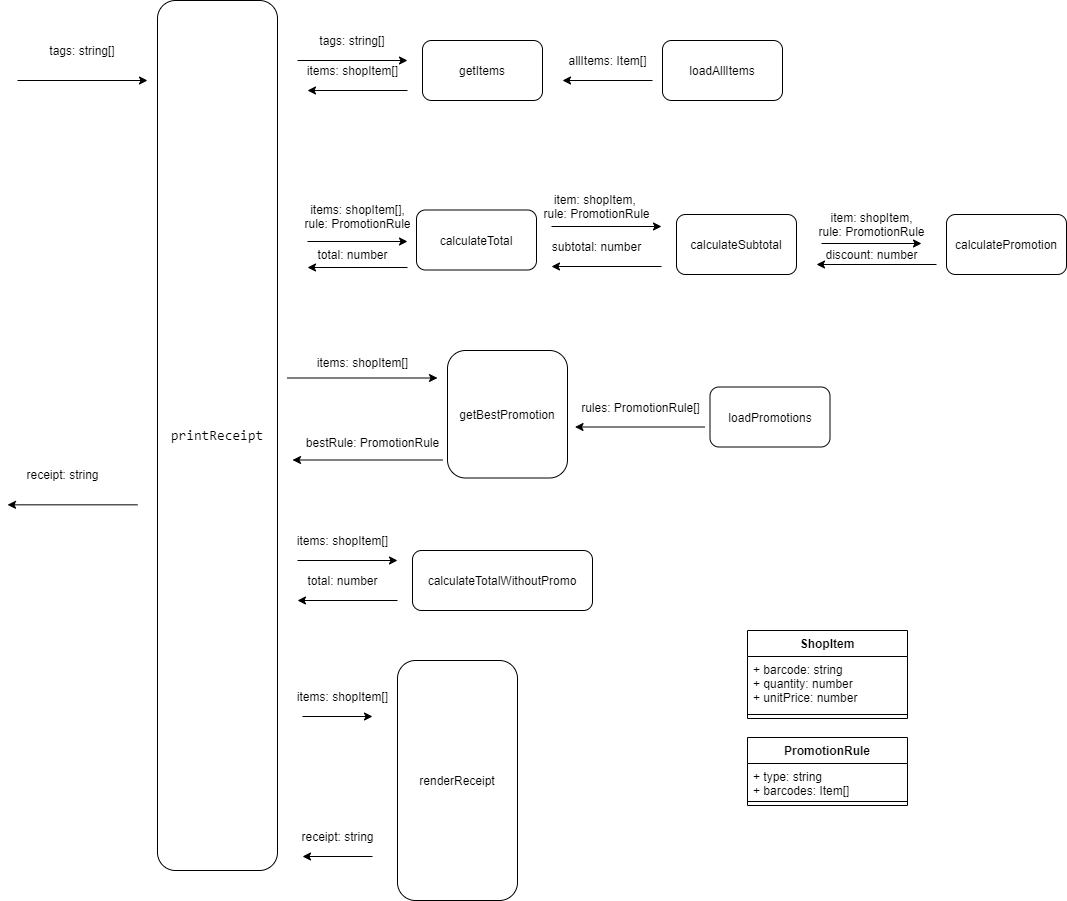
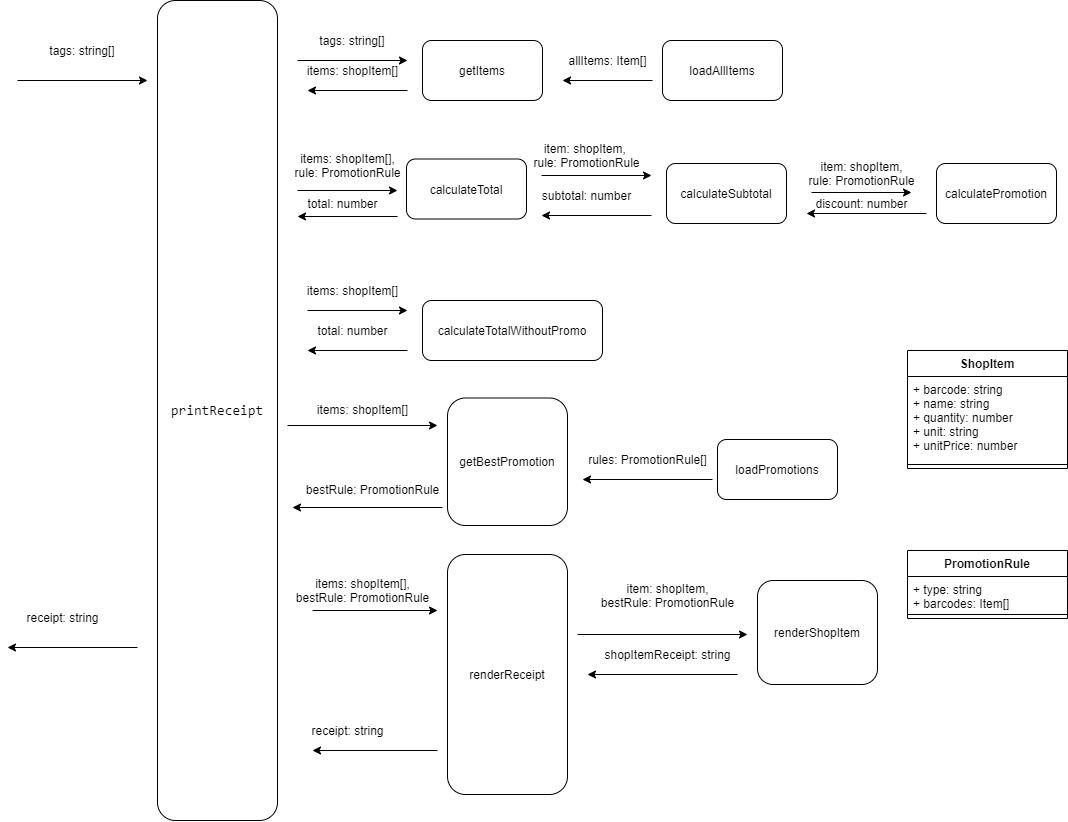
Feat: update tasking diagram & refactor

diff --git a/src/PrintReceipt.ts b/src/PrintReceipt.ts
@@ -1,7 +1,11 @@
 import { loadAllItems, loadPromotions } from './Dependencies'
 
 class ShopItem {
-  constructor(public barcode: string, public quantity: number, public unitPrice: number) {
+  constructor(public barcode: string,
+    public quantity: number,
+    public unitPrice: number,
+    public name: string,
+    public unit: string) {
   }
 }
 
@@ -20,10 +24,10 @@ function getItems(tags: string[]): ShopItem[] {
       barcode = tag.split('-')[0]
       quantity = Number(tag.split('-')[1])
     }
-    const unitPrice = allItems.find(item => item.barcode === barcode)?.price
+    const item = allItems.find(item => item.barcode === barcode)
     const index = shopItems.findIndex(item => item.barcode === barcode)
     index === -1
-      ? shopItems.push(new ShopItem(barcode, quantity, unitPrice || 0))
+      ? shopItems.push(new ShopItem(barcode, quantity, item?.price || 0, item?.name || '', item?.unit || ''))
       : shopItems[index].quantity += quantity
   })
   return shopItems
@@ -71,10 +75,12 @@ function getUnitPostfix(item: ShopItem): string {
   return item.quantity > 1 ? 's' : ''
 }
 
-function renderReceipt(shopItems: ShopItem[], bestRule: PromotionRule): string
-{
-  const allItems = loadAllItems()
+function renderShopItem(item: ShopItem, bestRule: PromotionRule): string {
+  const unit = item.unit + getUnitPostfix(item)
+  return `Name：${item.name}，Quantity：${item.quantity} ${unit}，Unit：${item.unitPrice.toFixed(2)}(yuan)，Subtotal：${calculateSubtotal(item, bestRule).toFixed(2)}(yuan)\n`
+}
 
+function renderReceipt(shopItems: ShopItem[], bestRule: PromotionRule): string {
   const header = '***<store earning no money>Receipt ***\n'
   const horizontalLine = '----------------------\n'
   const end = '**********************'
@@ -82,9 +88,7 @@ function renderReceipt(shopItems: ShopItem[], bestRule: PromotionRule): string
   let receipt = ''
   receipt += header
   shopItems.forEach(item => {
-    const name = allItems.find(i => i.barcode === item.barcode)?.name || ''
-    const unit = allItems.find(i => i.barcode === item.barcode)?.unit + getUnitPostfix(item) || ''
-    receipt += `Name：${name}，Quantity：${item.quantity} ${unit}，Unit：${item.unitPrice.toFixed(2)}(yuan)，Subtotal：${calculateSubtotal(item, bestRule).toFixed(2)}(yuan)\n`
+    receipt += renderShopItem(item, bestRule)
   })
 
   receipt += horizontalLine
